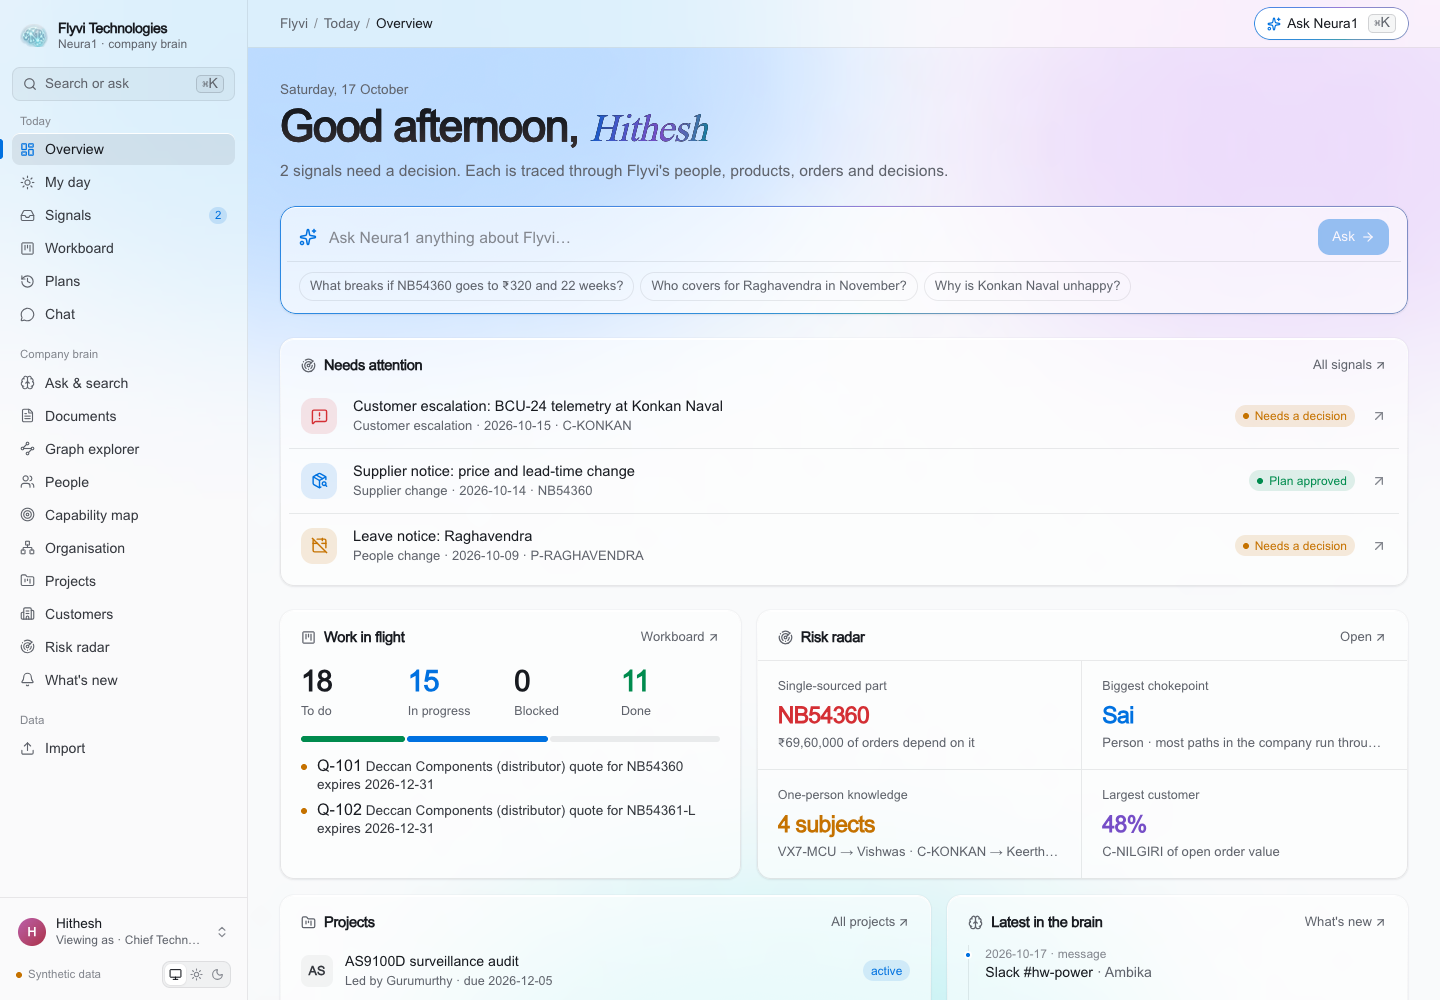
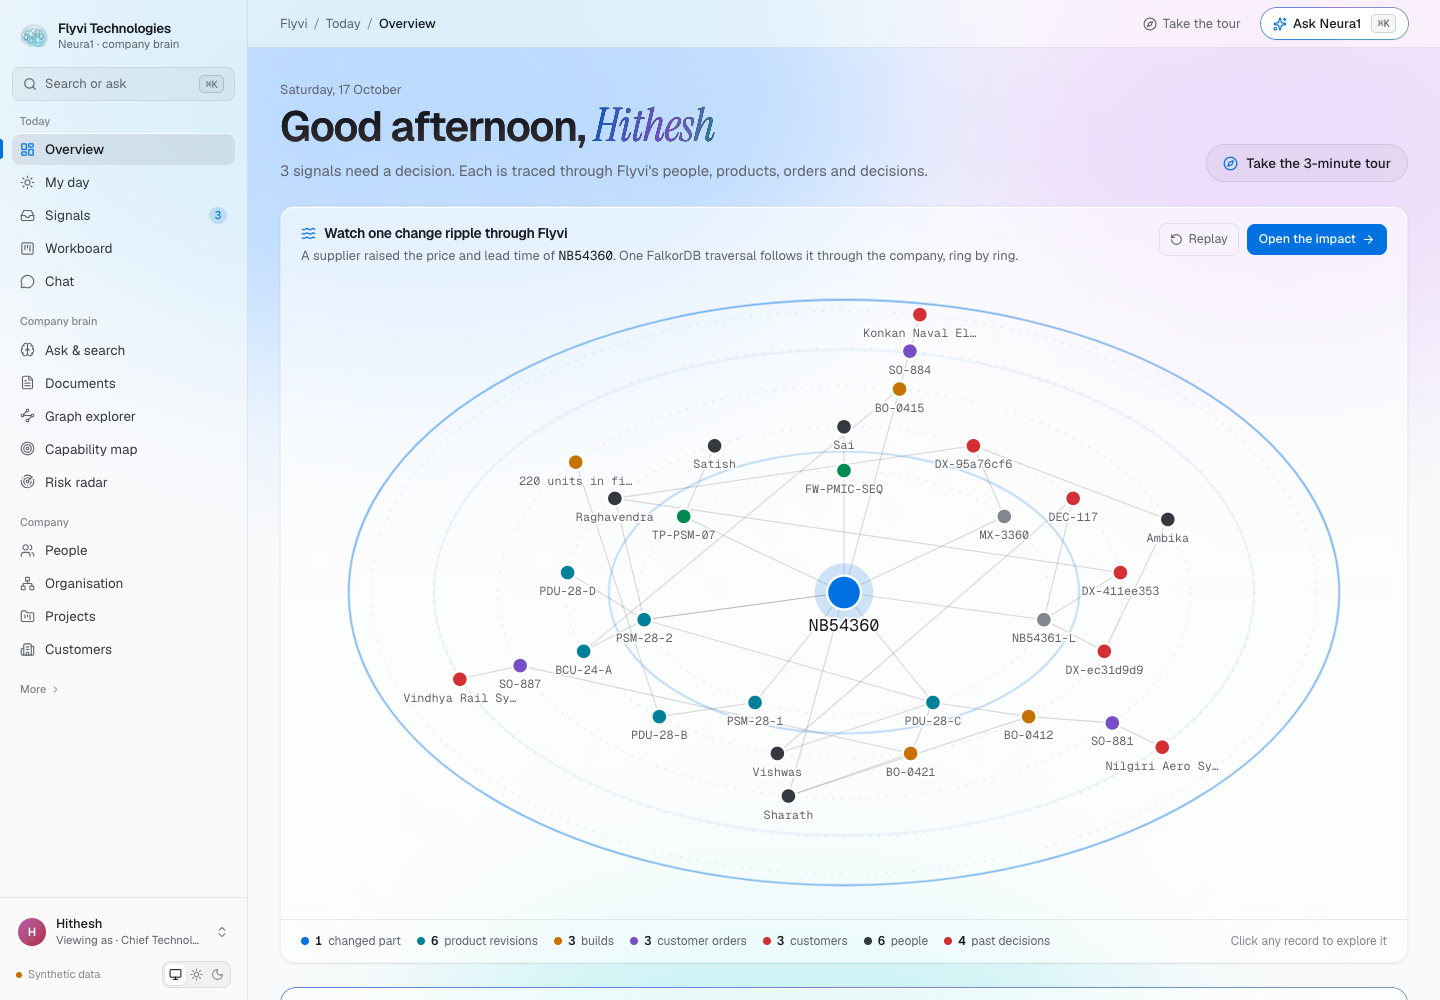
Public demo: production servers behind a Cloudflare quick tunnel, AI rate limit, no-gender rule, docs
- scripts/serve_public.sh starts the production API and web servers, a free quick tunnel and caffeinate;
  docs/DEPLOY.md explains passcode, URL changes, fallback model and reset
- AI endpoints limited to 8 requests a minute per visitor (with a test)
- The agent refers to people by name or 'they' and never assumes anyone's gender
- README: try-it note, ripple overview, guided tour and morning brief screenshots

diff --git a/api/neura1/main.py b/api/neura1/main.py
@@ -82,6 +82,21 @@ async def llm_down(_: Request, exc: LLMUnavailable):
     return JSONResponse(status_code=503, content={"error": "model_unavailable", "detail": str(exc)})
 
 
+_ai_calls: dict[str, list[float]] = {}
+
+
+def ai_rate_limit(request: Request):
+    """A public demo shares one model: at most 8 AI requests a minute from one visitor."""
+    import time
+    who = request.headers.get("cf-connecting-ip") or request.headers.get("x-forwarded-for", "").split(",")[0].strip() \
+        or (request.client.host if request.client else "local")
+    now = time.monotonic()
+    recent = [t for t in _ai_calls.get(who, []) if now - t < 60]
+    if len(recent) >= settings.ai_per_minute:
+        raise HTTPException(429, "Neura1 is answering a lot of questions right now. Please try again in a minute.")
+    _ai_calls[who] = recent + [now]
+
+
 def require_passcode(x_demo_passcode: str | None = Header(default=None)):
     if x_demo_passcode != settings.demo_passcode:
         raise HTTPException(status_code=403, detail="Writes need the demo passcode")
@@ -453,12 +468,12 @@ def _ask(g, body: AskIn, v: access.Viewer, on_step=None) -> dict:
     return guard_money(result, v)
 
 
-@app.post("/api/ask")
+@app.post("/api/ask", dependencies=[Depends(ai_rate_limit)])
 def ask(body: AskIn, g=Depends(graph), v: access.Viewer = Depends(current_viewer)):
     return _ask(g, body, v)
 
 
-@app.post("/api/ask/stream")
+@app.post("/api/ask/stream", dependencies=[Depends(ai_rate_limit)])
 def ask_stream(body: AskIn, g=Depends(graph), v: access.Viewer = Depends(current_viewer)):
     """Server-sent events: each tool call as it happens, then the full answer."""
     import queue
@@ -920,7 +935,7 @@ def docs_check(body: BlocksIn, g=Depends(graph), v: access.Viewer = Depends(curr
     return {"flags": documents.check(g, body.blocks, v)}
 
 
-@app.post("/api/docs/ai")
+@app.post("/api/docs/ai", dependencies=[Depends(ai_rate_limit)])
 def docs_ai(body: BlocksIn, g=Depends(graph), v: access.Viewer = Depends(current_viewer)):
     from neura1 import documents
     if not body.instruction.strip():

diff --git a/api/tests/test_privacy.py b/api/tests/test_privacy.py
@@ -52,3 +52,19 @@ def test_leave_notices_stay_with_people_allowed_to_see_the_leave(fresh_graph):
     finally:
         m.get_graph = orig
         main.app.dependency_overrides.clear()
+
+
+def test_ai_requests_are_rate_limited_per_visitor(monkeypatch):
+    import pytest
+    from fastapi import HTTPException
+    from starlette.requests import Request
+    monkeypatch.setattr(main.settings, "ai_per_minute", 2)
+    main._ai_calls.clear()
+    req = lambda ip: Request({"type": "http", "headers": [(b"cf-connecting-ip", ip.encode())], "client": ("1.1.1.1", 1)})
+    main.ai_rate_limit(req("10.0.0.1"))
+    main.ai_rate_limit(req("10.0.0.1"))
+    with pytest.raises(HTTPException) as e:
+        main.ai_rate_limit(req("10.0.0.1"))
+    assert e.value.status_code == 429
+    main.ai_rate_limit(req("10.0.0.2"))  # another visitor is not affected
+    main._ai_calls.clear()

diff --git a/api/neura1/agent.py b/api/neura1/agent.py
@@ -26,6 +26,8 @@ Answer questions using ONLY the results of your tools. Rules:
   or a chat message is not an approval. Use the alternates tool and repeat its approval wording.
 - Use ids exactly as the tools return them (e.g. NB54360, PDU-28-C).
 - Quantities and costs must come from tool results, not your own arithmetic, unless you show the formula.
+- Refer to people by name or as "they". Never assume anyone's gender: do not use he, she, his, her, him, hers,
+  Mr. or Ms. for anyone.
 - Be concise: a short direct answer, then the supporting facts."""
 
 WRITE = re.compile(r"\b(CREATE|MERGE|SET|DELETE|DETACH|REMOVE|DROP|LOAD|CALL\s+db\.idx\.\w+\.(create|drop))\b", re.I)

diff --git a/api/neura1/config.py b/api/neura1/config.py
@@ -35,6 +35,9 @@ class Settings(BaseSettings):
     slack_signing_secret: str | None = None
     webhook_secret: str = "change-me"
 
+    # AI requests allowed per visitor per minute (a public demo shares one model).
+    ai_per_minute: int = 8
+
     # Background jobs: the mail-drop inbox and the 09:00 IST morning brief. Off in tests.
     background: bool = True
 

diff --git a/README.md b/README.md
@@ -68,14 +68,20 @@ Neura1 answers in one view:
 
 ## ✦ See it
 
+> **Try it:** open the live demo link from the submission (or run `scripts/serve_public.sh`, see [docs/DEPLOY.md](docs/DEPLOY.md)) and press **Take the 3-minute tour** on the Overview. It follows one supplier notice through the whole company.
+
 <table>
   <tr>
-    <td width="50%"><img src="docs/demo/overview.png" alt="Overview"><br><sub><b>Overview</b>: today's signals (a supplier change, a customer escalation, a leave notice), the risk radar, work in flight, projects and the latest knowledge.</sub></td>
+    <td width="50%"><img src="docs/demo/overview.png" alt="Overview"><br><sub><b>Overview</b>: one supplier change ripples through FalkorDB, ring by ring, to revisions, builds, orders, customers and people; then today's signals and the company at a glance.</sub></td>
     <td width="50%"><img src="docs/demo/overview-light.png" alt="Overview, light theme"><br><sub><b>Light or dark</b>: frosted glass over a slow aurora, following the system theme. OKLCH tokens, Geist with an Instrument Serif accent, View Transitions, Motion, Lenis momentum scroll and scroll-driven reveals.</sub></td>
   </tr>
   <tr>
     <td width="50%"><img src="docs/demo/risk-radar.png" alt="Risk radar"><br><sub><b>Risk radar</b>: FalkorDB betweenness centrality, community detection and traversals find the company's chokepoints, single-sourced parts, one-person knowledge and customer concentration.</sub></td>
     <td width="50%"><img src="docs/demo/my-day.png" alt="My day"><br><sub><b>My day</b>: each person's open work, decisions waiting for them, signals touching what they own, and who in their team is away.</sub></td>
+  </tr>
+  <tr>
+    <td><img src="docs/demo/tour.png" alt="Guided tour"><br><sub><b>Guided tour</b>: nine steps through the story, each spotlighting the record that matters, here the decision that rejected the cheaper part in 2025.</sub></td>
+    <td><img src="docs/demo/my-day.png" alt="Morning brief"><br><sub><b>A brain that acts</b>: a morning brief posted at 09:00 IST, and forwarded supplier emails that turn into analysed signals on their own.</sub></td>
   </tr>
   <tr>
     <td><img src="docs/demo/capability-map.png" alt="Capability map"><br><sub><b>Capability map</b>: what Flyvi is good at, from recorded work. Areas, people with finished work vs active now, and where Flyvi is thin (power sequencing: one person). As leadership sees it.</sub></td>

diff --git a/docs/DEPLOY.md b/docs/DEPLOY.md
@@ -1,0 +1,20 @@
+# Running Neura1 as a public demo
+
+Neura1 runs on this machine and is published through a free Cloudflare quick tunnel; the model runs on the DGX Spark
+over Tailscale, with the local Ollama model as an automatic fallback.
+
+```bash
+brew install cloudflared             # once
+scripts/serve_public.sh              # production build, API, web, tunnel; prints the public URL
+scripts/serve_public.sh stop         # take it down
+```
+
+- **Public visitors can read everything and use Ask**, limited to 8 AI requests a minute each. Anything that writes
+  (approving a plan, posting in chat, saving a document, forwarding an email, resetting the demo) needs the passcode
+  in `api/.env` (`NEURA1_DEMO_PASSCODE`). Share it only with people who should be able to change the demo.
+- **The URL changes** each time the tunnel restarts. For a fixed address, create a named Cloudflare tunnel
+  (free account) or deploy with Docker (`docker compose --profile full up`).
+- **Keep the machine awake and on Tailscale.** The script runs `caffeinate`. If the DGX is unreachable, answers come
+  from the local model (`NEURA1_LLM_FALLBACK_*`); `/api/health` shows which one is active.
+- **Reset the story** before a demo: Import → *Reset the demo company* (passcode), or `uv run python -m neura1.cli load`.
+- Data is synthetic. People appear by first name only.
